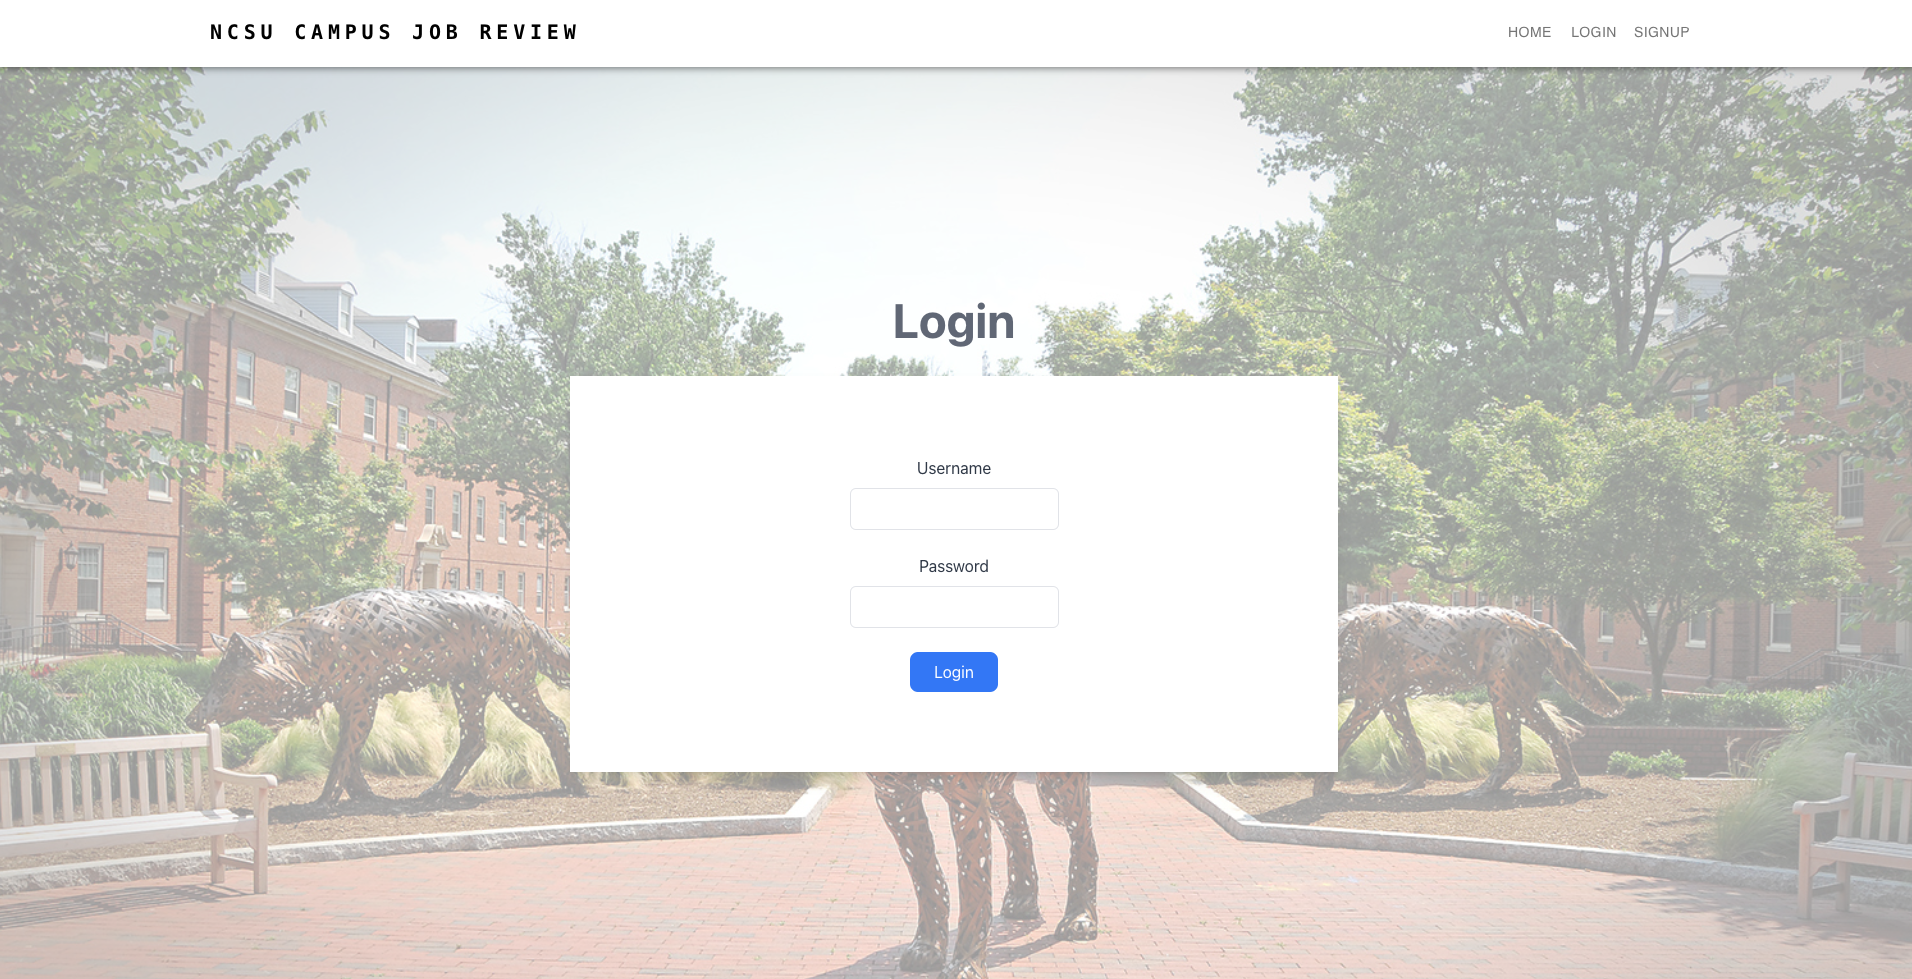
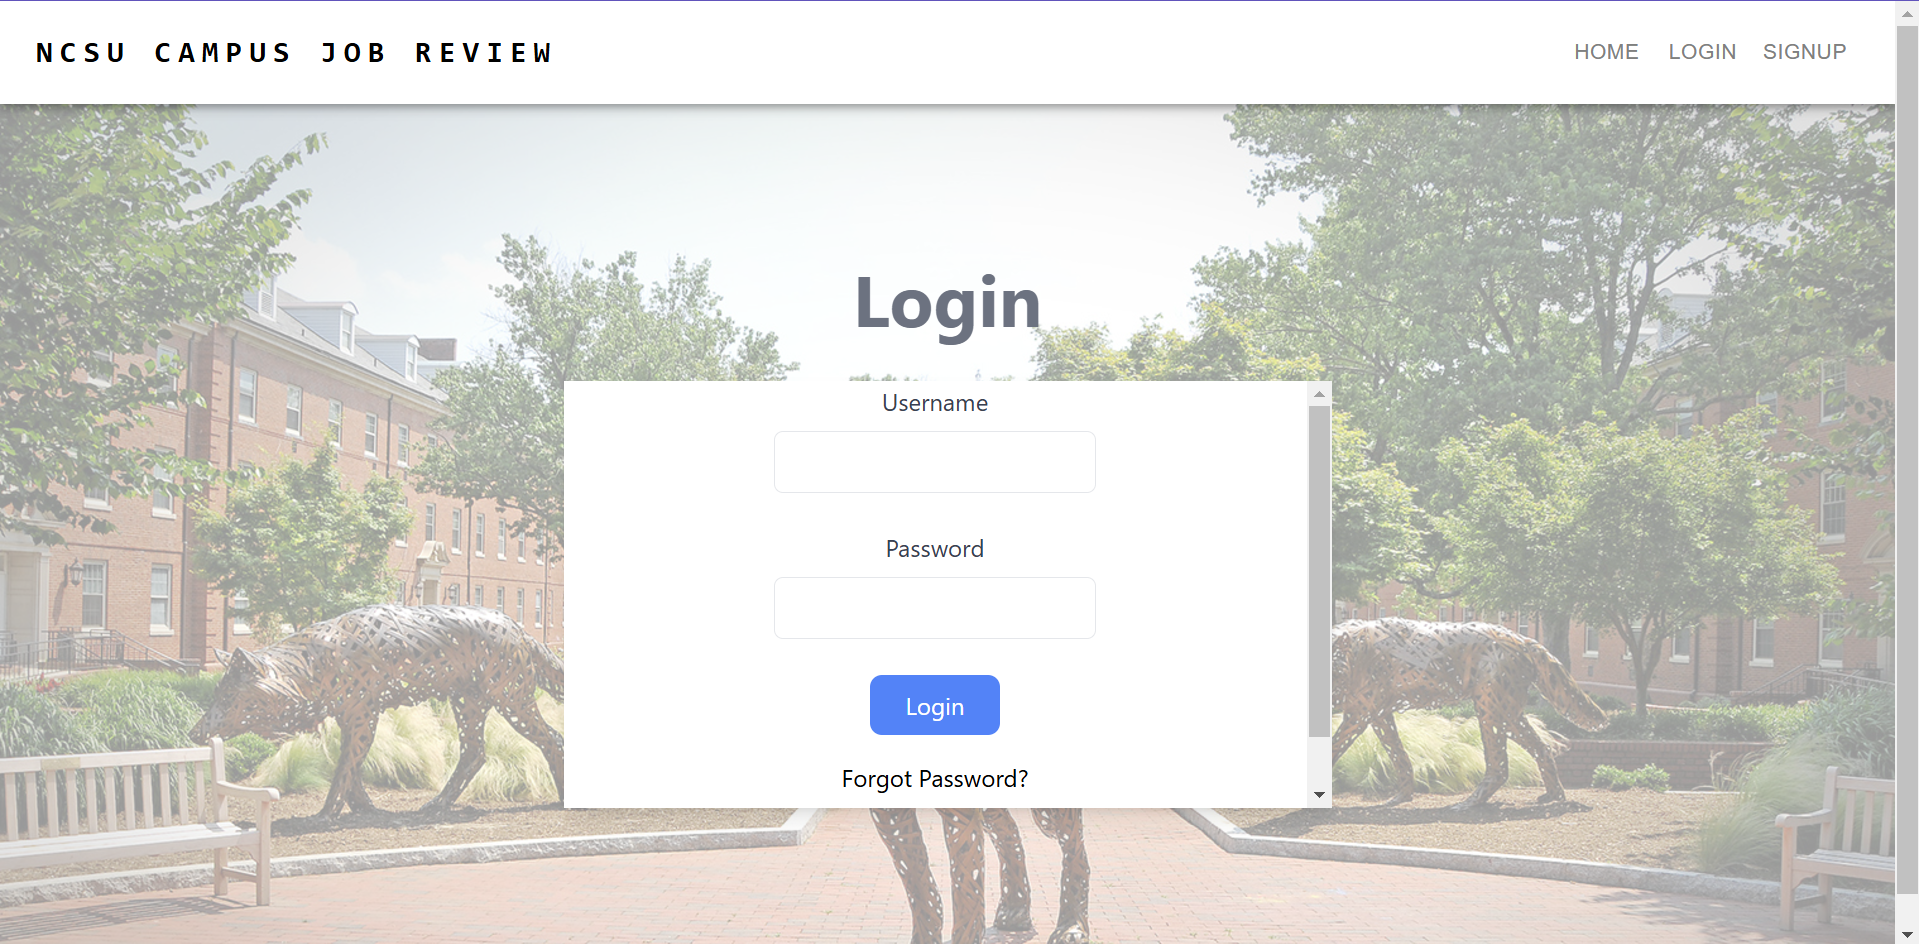
update use case documentation for log in and reset password process

diff --git a/UseCase_Documentation.md b/UseCase_Documentation.md
@@ -10,36 +10,52 @@ As you enter our application, you will be greeted by a beautiful home page that 
 ### Authentication 
 The first step as you start your journey of exploring the Campus Job Review web application is to sign up using a username and password. Make sure that your password includes letters and numbers which will make sure that you have the right requirements to sign up successfully. 
 
-Sign Up: The picture below shows the page that opens up when you click the SIGNUP button that is located on the top right corner of the landing page. 
+#### Sign Up
+The picture below shows the page that opens up when you click the SIGNUP button that is located on the top right corner of the landing page. 
 ![SignUp-Landing-Page](docs/images/sign_up.png)
 
 Once you are here, choose a strong username and password to sign up yourself to start using the application. Then, click on the Sign Up button in blue. 
 ![SignUp-Details-Page](docs/images/sign_up_fill.png)
 
-Successful Registration: 
+**Successful Registration**: 
 Once you have met the requirements for the username and password, you will see a pop-up indicating a successful registration. It will then tell you to visit the email that you entered to verify email address.
 ![SignUp-Success-Page](docs/images/sign_up_success.png)
 
-- Verify Email
+- **Verify Email**:
 You will receive an email from the application. Click on the link provided to verify your email address and proceed to the log in process
 ![Verify-Email](docs/images/verify_email.png)
 
-
-Failed Registration: 
+**Failed Registration**: 
  Given that a username or email already exists, you will not be able to sign up and will recieve a unsuccessful message. Other cases where you will not be able register successfully include not entering a username or leaving the password empty. An example of a failed registration can be seen in the picture below. 
 ![SignUp-Failure-Page](docs/images/sign_up_fail.png)
 
-Login:
-
+#### Login
 Now that you have successfully signed up as a valid user, let us login to the application. You can click on the LOGIN button located at the top right corner which sits in between the HOME and the SIGNUP buttons. Once you click LOGIN, you will be greeted with the following page: 
 ![Login-landing-Page](docs/images/login_landing.png)
 
    It is time to login with the same credentials that you used to sign up. Enter the details and your page will look similar to the image below. 
     ![Login-details-Page](docs/images/login_details.png)
-- Successful Login: Given that you have entered a valid username and password based on the details that you used to signup, you will be directed to a new page with new buttoms. The new options available can be seen at the top right corner as "Add Review", "View Reviews", and "LOGOOUT".
-     ![Login-success-Page](docs/images/login_success.png)
-- Failed Login: Given that you have entered the incorrect username or password, you will see a pop-up explaining that you have entered the invalid credentials. Time to try again!
-     ![Login-failure-Page](docs/images/login_failure.png)
+**Successful Login**: Given that you have entered a valid username and password based on the details that you used to signup, you will be directed to a new page with new buttoms. The new options available can be seen at the top right corner as "ADD REVIEW", "VIEW REVIEWS", "PROFILE", and "LOGOUT".
+![Login-success-Page](docs/images/login_success.png)
+**Failed Login**: Given that you have entered the incorrect username or password, you will see a pop-up explaining that you have entered the invalid credentials. Time to try again!
+![Login-failure-Page](docs/images/login_fail.png)
+    - **Reset Password**: In case you cannot login and do not remember your password, you may click on the "Reset Password?" button at the bottom and it will redirect you to this page. You will need to enter your email address and click on "Send OTP"
+    ![Forgot-Password](docs/images/forgot_pass.png)
+    - Once successfully enter a valid email address, you will be directed to a new page requesting a one-time password with a time limit of 10 minutes.
+    ![Enter-OPT](docs/images/enter_otp.png)
+    - You will need to check your email for the OTP. You will a 6 digit number in bold. That will be the one-time password you need to reset the password. This is what the email should look like.
+    ![Reset-Password-Email](docs/images/reset_pass_email.png)
+    - You will enter the 6 digit number into the text field. If you incorrectly enter the OTP, you will see a pop up explaining that your OTP is incorrect. You will need to try again
+    ![Wrong-OTP](docs/images/wrong_otp.png)
+    - Once you correctly entered the OTP, you will be directed to the reset password page, where you will enter a new password and confirm it.
+    ![Reset-Password](docs/images/reset_password.png)
+    - Once you successfully enter a valid password and confirmed it, you will see a pop up notifying you that your passsword is successfully changed and redirect you to the login page.
+    ![Reset-Password](docs/images/reset_password_success.png)
+
+
+
+
+
 
 ### Add Review
 We offer the option for you to add a review to help your peers make informed decisions about the on-campus jobs. You are required to fill in various fields which include Job Title, Department, Location, Job Description, Hourly Pay, Benefits, Rating, Recommendation, and Review. 
